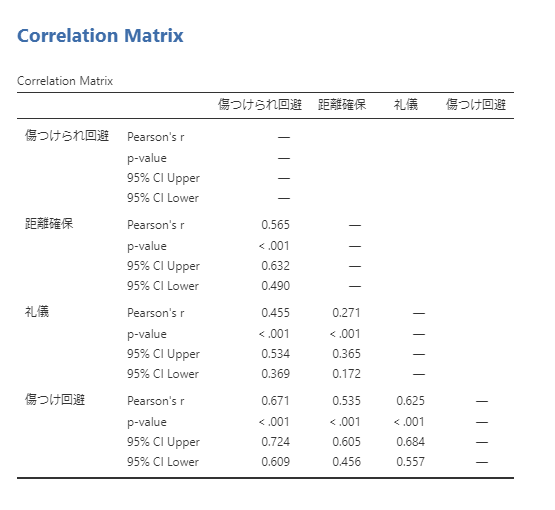
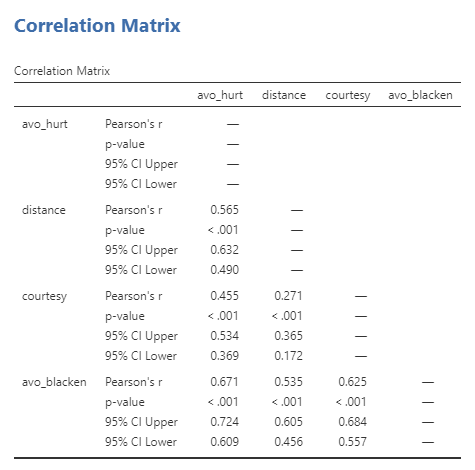
Chap. regression image updated

diff --git a/docs/ch04-cor.html b/docs/ch04-cor.html
@@ -140,12 +140,12 @@
             <section class="normal" id="section-">
 <div id="correlation" class="section level1">
 <h1><span class="header-section-number">5</span> 相関と連関</h1>
-<p>　本節では回帰分析および重回帰分析の操作方法を解説します。ここでは永井(2018)が扱ったデータを使って分析していきます。永井(2018)では，「傷つけ合い回避」尺度と「ソーシャルスキル」尺度を用い，友人との付き合い方を分類しています。ここで用いられている「傷つけ合い回避」尺度は「傷つけられ回避」，「距離確保」，「礼儀」，「傷つけ回避」の４つの下位尺度から構成されています。それでは，この４つの下位尺度間にはどの程度関連性があるのか確かめます。この時，それぞれの調査協力者が示す各下位尺度の得点は，各下位尺度に含まれる複数の質問項目に対して５件法で回答した結果の平均値として求められています。このような情報は間隔尺度として扱えるため，４つの下位尺度間の関連性は相関係数を求めることによって確かることができます。
-　調査に協力した357名の学生の「友人との付き合い方」は，「傷つけ合い回避」尺度と「ソーシャルスキル」尺度への回答結果に基づいて5つのグループ（クラスタ）に分けられ，永井(2018)ではそれぞれのグループが示した特徴が述べられます。本節では，5つに分けられたそれぞれの「友人との付き合い方」のグループと，調査協力者の性別との関わりについて検討した結果（Table 2）を確かめます。
+<p>　本節では回帰分析および重回帰分析の操作方法を解説します。ここでは永井(2018)が扱ったデータ (Nagai_2018.csv) を使って分析していきます。永井(2018)では，「傷つけ合い回避」尺度と「ソーシャルスキル」尺度を用い，友人との付き合い方を分類しています。ここで用いられている「傷つけ合い回避」尺度は「傷つけられ回避」，「距離確保」，「礼儀」，「傷つけ回避」の４つの下位尺度から構成されています。それでは，この４つの下位尺度間にはどの程度関連性があるのか確かめます。この時，それぞれの調査協力者が示す各下位尺度の得点は，各下位尺度に含まれる複数の質問項目に対して５件法で回答した結果の平均値として求められています。このような情報は間隔尺度として扱えるため，４つの下位尺度間の関連性は相関係数を求めることによって確かることができます。
+　調査に協力した357名の学生の「友人との付き合い方」は，「傷つけ合い回避」尺度と「ソーシャルスキル」尺度への回答結果に基づいて5つのグループ（クラスタ）に分けられ，永井(2018)ではそれぞれのグループが示した特徴が述べられます。本節では，5つに分けられたそれぞれの「友人との付き合い方」のグループと，調査協力者の性別との関わりについて検討した結果（Table 2）についても確かめてみましょう。
 　</p>
 <div id="相関係数を求める相関分析をおこなう" class="section level2">
 <h2><span class="header-section-number">5.1</span> 相関係数を求める／相関分析をおこなう</h2>
-<p>　それでは，「傷つけ合い回避」尺度の下位尺度である「傷つけられ回避」，「距離確保」，「礼儀」，「傷つけ回避」のそれぞれの尺度得点間の関連性を確かめてみましょう。まず，AnalysesタブのRegressionを選択します。プルダウンメニューから「Correlation Matrix」を選択してください (Figure 4-1)。ここまでの分析と同様に，左側のボックスには変数の一覧が表示されています。この変数の一覧から使用する変数を選び右側のボックスに移します。ここでは「傷つけられ回避」，「距離確保」，「礼儀」，「傷つけ回避」のそれぞれの尺度得点間の関連性を確かめるため，「傷つけられ回避」，「距離確保」，「礼儀」，「傷つけ回避」の４つを選びます。すると右側の出力結果部分に，それぞれの尺度得点間のピアソンの積率相関係数 (Pearson’s r) を示した相関行列が示されます。</p>
+<p>　まず，「傷つけ合い回避」尺度の下位尺度である「傷つけられ回避(avo_hurt)」，「距離確保(distance)」，「礼儀(courtesy)」，「傷つけ回避(avo_blacken)」のそれぞれの尺度得点間の関連性を確かめてみましょう。まず，AnalysesタブのRegressionを選択します。プルダウンメニューから「Correlation Matrix」を選択してください (Figure 4-1)。ここまでの分析と同様に，左側のボックスには変数の一覧が表示されています。この変数の一覧から使用する変数を選び右側のボックスに移します。ここでは「傷つけられ回避」，「距離確保」，「礼儀」，「傷つけ回避」のそれぞれの尺度得点間の関連性を確かめるため，「傷つけられ回避」，「距離確保」，「礼儀」，「傷つけ回避」の４つを選びます。すると右側の出力結果部分に，それぞれの尺度得点間のピアソンの積率相関係数 (Pearson’s r) を示した相関行列が示されます。</p>
 <p><img src="img/04correl/Figure1.png" alt="Figure 4-1" />
 Figure 4-1 相関行列の表示</p>
 <p>　ピアソンの積率相関係数 (Pearson’s r) の下の行に示されている数値は，その相関係数が生じ得る確率 (p-value)です。「その相関係数が生じ得る確率 (p-value)」とは，関連性を確認した２つの変数から得られた相関係数について，仮説検定（無相関検定）を行った結果を示しています。無相関検定の帰無仮説は「相関がない／相関係数≒０」となります。相関係数は自由度がn-2のt分布に従うことが知られているので， <span class="math display">\[ t = r\sqrt{n-2}/\sqrt{1-r^2} \]</span> の式に，相関係数 (<em>r</em>) およびデータ数 (<em>n</em>) を代入してt値を求めると，そのt値が取る累積確率（外側）を用いて仮説検定を行えます。</p>
@@ -164,7 +164,7 @@ Figure 4-2 相関行列の表示（信頼区間を示したもの）</p>
 </div>
 <div id="クロス集計カイ二乗検定をおこなう" class="section level2">
 <h2><span class="header-section-number">5.2</span> クロス集計／カイ二乗検定をおこなう</h2>
-<p>　永井(2018)では，調査に協力した357名の学生の「友人との付き合い方」を，「傷つけ合い回避」尺度と「ソーシャルスキル」尺度への回答結果に基づいて５つのグループ（クラスタ）に分け，調査協力者の性別との関わりについて検討しています（Table 2）。この分析をどのようにおこなうのか，実際に確かめてみましょう。まず，AnalysesタブのFrequenciesを選択します。プルダウンメニューから「Contingency Tables」の下にある「Independent Samples <em>χ</em><sup>2</sup> test of associationを選択してください (Figure 4-3)。ここまでの分析と同様に，左側のボックスには変数の一覧が表示されています。この変数の一覧から使用する変数を選び右側のボックスに移します。ここではRows（行）に「性別」，Columns（列）に「友人との付き合い方」を選択します。すると右側の出力結果部分に，連関表（クロス集計表）が示されます。同時にカイ二乗検定をおこなった結果も示されています。
+<p>　永井(2018)では，調査に協力した357名の学生の「友人との付き合い方」を，「傷つけ合い回避」尺度と「ソーシャルスキル」尺度への回答結果に基づいて５つのグループ（クラスタ）に分け，調査協力者の性別との関わりについて検討しています（Table 2）。この分析をどのようにおこなうのか，jamoviを操作して実際に確かめてみましょう。まず，AnalysesタブのFrequenciesを選択します。プルダウンメニューから「Contingency Tables」の下にある「Independent Samples <em>χ</em><sup>2</sup> test of association」を選択してください (Figure 4-3)。ここまでの分析と同様に，左側のボックスには変数の一覧が表示されています。この変数の一覧から使用する変数を選び右側のボックスに移します。ここではRows（行）に「性別(gender)」，Columns（列）に「友人との付き合い方(style_friendship)」を選択します。すると右側の出力結果部分に，連関表（クロス集計表）が示されます。同時にカイ二乗検定をおこなった結果も示されています。
 　
 <img src="img/04correl/Figure3.png" alt="Figure 4-3" />
 Figure 4-3 性別と友人との付き合い方とのクロス集計表</p>
@@ -174,16 +174,16 @@ Figure 4-3 性別と友人との付き合い方とのクロス集計表</p>
 Figure 4-4 性別と友人との付き合い方とのクロス集計表（男女比を示したもの）</p>
 <div id="カイ二乗検定の結果を確かめる" class="section level3">
 <h3><span class="header-section-number">5.2.1</span> カイ二乗検定の結果を確かめる</h3>
-<p>　Figure ％4 で見たように，どちらの性別でも「友人との付き合い方」で分けた５つのグループの構成比に違いはありませんでした。またどのグループでも男女比は３:７～４：６の間に収まりました。このことは，５つの「友人との付き合い方」と調査協力者の性別との間に関わりはなく，「友人との付き合い方」は性別によって決まるものではない，と考えられます。この傾向はカイ二乗検定の結果 (<em>χ</em><sup>2</sup>(4) = 2.16, <em>p</em> = .71) からも確かめられます。この結果に加えて，このカイ二乗値にどれだけ効果が認められるか確かめておきましょう。左側のボックスの下部の「Nominal」欄の Phi and Cramer’s V を選択すると効果量が求められます (Figure 4-5)。今回の分析で用いた２行×５列のような多くのカテゴリーから構成される情報を分析する場合は，Cramer’s V を用います。それぞれの２つずつのカテゴリーから構成される２行×２列のクロス集計の場合には，Phi-coefficient (<em>φ</em>) を用います。それぞれの降下量の目安は，小：.10，中：.30，大：.50です。今回の場合 <em>V</em> = .08ですので，「友人との付き合い方」と調査協力者の性別との間に連関がないこと（独立であること）が確かめられます。
+<p>　Figure 4-４ で見たように，どちらの性別でも「友人との付き合い方」で分けた５つのグループの構成比に違いはありませんでした。またどのグループでも男女比は３:７～４：６の間に収まりました。このことは，５つの「友人との付き合い方」と調査協力者の性別との間に関わりはなく，「友人との付き合い方」は性別によって決まるものではない，と考えられます。この傾向はカイ二乗検定の結果 (<em>χ</em><sup>2</sup>(4) = 2.16, <em>p</em> = .71) からも確かめられます。この結果に加えて，このカイ二乗値にどれだけ効果が認められるか確かめておきましょう。左側のボックスの下部の「Statistics」をクリックして開き，「Nominal」欄の 「Phi and Cramer’s V」 を選択すると効果量が求められます (Figure 4-5)。今回の分析で用いた２行×５列のような多くのカテゴリーから構成される情報を分析する場合は，Cramer’s V を用います。それぞれの２つずつのカテゴリーから構成される２行×２列のクロス集計の場合には，Phi-coefficient (<em>φ</em>) を用います。それぞれの降下量の目安は，小：.10，中：.30，大：.50です。今回の場合 <em>V</em> = .08ですので，「友人との付き合い方」と調査協力者の性別との間に連関がないこと（独立であること）が確かめられます。
 　
 <img src="img/04correl/Figure5.png" alt="Figure 4-5" />
 Figure 4-5 性別と友人との付き合い方とのクロス集計表（男女比・効果量を示したもの）
 　
-　カイ二乗検定に用いられるカイ二乗値には，複数の求め方があります。一般的な求め方の他に尤度比と呼ばれるものを用いてカイ二乗値を求めたい場合には，左側のボックスの下部の「Tests」欄のLikelihood ratioを選択すると尤度比検定を行った結果が示されます (Figure 4-6)。また，今回の分析で用いた２行×５列のような，多くのカテゴリーからなる情報を分析する場合には問題になりませんが，それぞれの２つずつのカテゴリーからなる２行×２列になる情報をクロス集計する場合には注意が必要です。この場合は「Tests」欄の<em>χ</em><sup>2</sup> continuity correction（連続修正／イエーツの修正），そしてFisher’s exact test（フィッシャーの正確確率検定）を選択します。もし１つのセルの期待度数が５未満となる場合にはFisher’s exact test の結果を用います。そうでない場合は，<em>χ</em><sup>2</sup> continuity correction の結果を用います (Figure 4-6)。</p>
+　カイ二乗検定に用いられるカイ二乗値には，複数の求め方があります。一般的な求め方の他に尤度比と呼ばれるものを用いてカイ二乗値を求めたい場合には，左側のボックスの下部の「Tests」欄のLikelihood ratioを選択すると尤度比検定を行った結果が示されます (Figure 4-6)。また，今回の分析で用いた２行×５列のような，多くのカテゴリーからなる情報を分析する場合には問題になりませんが，それぞれが２つずつのカテゴリーからなる２行×２列である情報をクロス集計する場合には注意が必要です。２行×２列のクロス集計の場合は，「Statistics」をクリックして開き，「Tests」欄の<em>χ</em><sup>2</sup> continuity correction（連続修正／イエーツの修正），そしてFisher’s exact test（フィッシャーの正確確率検定）を選択します。もし１つのセルの期待度数が５未満となる場合にはFisher’s exact test の結果を用います。そうでない場合は，<em>χ</em><sup>2</sup> continuity correction の結果を用います (Figure 4-6)。</p>
 <p><img src="img/04correl/Figure6.png" alt="Figure 4-6" />
 Figure 4-6 性別と友人との付き合い方とのクロス集計表（全ての情報を示したもの）
 　　
-　以上の結果をまとめると，「友人との付き合い方」によって分けた５つのグループと調査協力者の性別との間には関わり（連関）はなく独立の関係であること (<em>χ</em><sup>2</sup>(4) = 2.16, <em>p</em> = .71, <em>V</em> = .08) が確かめられました。</p>
+　以上の結果をまとめると，「友人との付き合い方」によって分けた５つのグループと調査協力者の性別との間には関わり（連関）はなく独立の関係であること (<em>χ</em><sup>2</sup>(4) = 2.16, <em>p</em> = .71, <em>V</em> = .08) が確かめられた，ということになります。</p>
 
 </div>
 </div>
